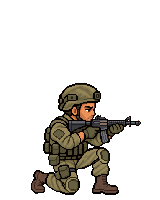
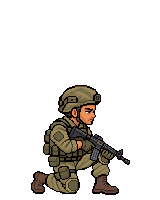
Прицел с колена берётся из рисунка Саши, а не из монтажа
«Солдат сидит и не стреляет» оказался не сидящим: это светлый солдат на
колене с оружием наготове, анфас и профиль — ровно та поза, которой не
хватало под прицеливание. По именам это было не угадать, и кадр пришлось
собирать снятием вспышки с выстрела. Теперь фаза идёт прямо из рисунков,
а код снятия вспышки удалён: держать его ради кадра, который нарисован,
незачем.

Заодно импортирована бочка с нефтью — высотой 84, по колено бойцу.

Changed region(s): [[0.1875, 0.39, 0.875, 0.99], [0.7188, 0.93, 0.75, 0.96], [0.2188, 0.96, 0.25, 0.99]]

diff --git a/tools/import_oil_baron_2.py b/tools/import_oil_baron_2.py
@@ -42,13 +42,13 @@ BARON = {
     "oil_baron_down": "барон побеждён.png",
 }
 
-# Светлому солдату колена с опущенным оружием не нарисовали, а без него у
-# него нет фазы прицела. Кадр собирается из его же выстрела снятием
-# дульной вспышки: поза уже та, что нужна, и трогать рисунок не приходится.
-# Тёмному это не нужно — у него своя поза есть.
+# «Сидит и не стреляет» — это светлый солдат на колене с оружием наготове,
+# профиль и анфас. Имена сбивали с толку, и фазу прицела сначала собрали
+# монтажом из кадра выстрела; настоящие рисунки Саши его заменили.
+# Эти же кадры сидят в кабине вертушки до высадки.
 AIMING = {
-    "soldier_kneel": "солдат_сбоку_на_колене_стреляет(1).png",
-    "soldier_kneel_front": "солдат_спереди_на_колене_стреляет(1).png",
+    "soldier_kneel": "соладт сидит и не стреляет.png",
+    "soldier_kneel_front": "солдат сидит и не стреляет.png",
 }
 
 
@@ -62,6 +62,8 @@ ROPE_WIDTH = 8
 # Висящий солдат выше стоящего: руки подняты над головой, и мерить его
 # ростом нельзя. Число снято по кадру и сверено глазами рядом со стойкой.
 ROPE_BODY = 178
+# Бочка по колено бойцу: 0,88 м против его 1,75.
+BARREL_HEIGHT = 84
 
 
 def silhouette(path: Path):
@@ -100,44 +102,6 @@ def headwear(mask, brim_threshold=0.0):
     size = max(s[1] - s[0] + 1 for s in solid)
     center = float(np.mean([(s[0] + s[1]) / 2 for s in solid]))
     return size, center, top + brim, bottom
-
-
-def without_flash(rgb, mask):
-    """Маска без дульной вспышки.
-
-    Вспышка отделена от ствола и висит в воздухе, поэтому вырезается целиком
-    как связная область оранжево-жёлтого. Заливка идёт от самой яркой точки:
-    порог по цвету одиночно цепляет и блики на снаряжении.
-    """
-    r, g, b = (rgb[:, :, i].astype(int) for i in range(3))
-    # Ядро вспышки выбелено почти до белого, и один оранжевый порог его не
-    # ловит: заливка обходила бы центр по кольцу и оставляла его на месте.
-    hot = mask & (r > 180) & (g > 110) & ((r - b > 60) | (b > 165))
-    if not hot.any():
-        return mask
-    ys, xs = np.where(hot)
-    # Старт ищется по оранжевости, а не по яркости: светлая кожа лица тоже
-    # проходит порог, и заливка от неё съедала лицо, оставляя вспышку.
-    start = int(np.argmax((r + g - 2 * b)[ys, xs]))
-    stack = [(int(ys[start]), int(xs[start]))]
-    flash = np.zeros_like(hot)
-    height, width = hot.shape
-    while stack:
-        y, x = stack.pop()
-        if y < 0 or x < 0 or y >= height or x >= width or flash[y, x] or not hot[y, x]:
-            continue
-        flash[y, x] = True
-        stack.extend([(y + 1, x), (y - 1, x), (y, x + 1), (y, x - 1)])
-    # Свет размазан по краю: без запаса вокруг вспышки остаётся оранжевая
-    # кайма. Она не касается ствола, поэтому запас безопасен.
-    for _ in range(4):
-        grown = flash.copy()
-        grown[1:] |= flash[:-1]
-        grown[:-1] |= flash[1:]
-        grown[:, 1:] |= flash[:, :-1]
-        grown[:, :-1] |= flash[:, 1:]
-        flash = grown
-    return mask & ~flash
 
 
 def place(rgb, mask, scale, center_x, bottom, name):
@@ -217,7 +181,7 @@ def main():
     for name, filename in AIMING.items():
         rgb, mask = silhouette(SOURCE / filename)
         size, center, _, bottom = headwear(mask)
-        place(rgb, without_flash(rgb, mask), HELMET / size, center, bottom, name)
+        place(rgb, mask, HELMET / size, center, bottom, name)
 
     for name, filename in ICE.items():
         rgb, mask = silhouette(SOURCE / filename)
@@ -263,6 +227,12 @@ def flying():
     encode(resize_to_height(rope.astype(np.uint8), max(1, round(rope.shape[0] * scale))),
            ROOT / "art/rope.png")
     print(f"rope: {ROPE_WIDTH} шириной")
+
+    rgb, mask = silhouette(SOURCE / "бочка с нефтью.png")
+    ys, xs = np.where(mask)
+    barrel = np.dstack((rgb, np.where(mask, 255, 0)))[ys.min():ys.max() + 1, xs.min():xs.max() + 1]
+    encode(resize_to_height(barrel.astype(np.uint8), BARREL_HEIGHT), ROOT / "art/barrel.png")
+    print(f"barrel: высота {BARREL_HEIGHT}")
 
     rgb, mask = silhouette(SOURCE / "спускается по верёвке черный.png")
     ys, xs = np.where(mask)

diff --git a/art/README.md b/art/README.md
@@ -98,7 +98,7 @@ tools/run.sh        # запустить стенд
 ### Партия «10.09 продолжение босс файта»
 
 Исходники целиком в `oil_baron_2_source/`, включая то, что в игру пока не
-едет. `python3 tools/import_oil_baron_2.py` собирает из них двадцать пять
+едет. `python3 tools/import_oil_baron_2.py` собирает из них двадцать шесть
 игровых кадров. Четыре кадра ICE перерисованы заново и заменили кадры
 9 сентября — те остались только исходниками, и `import_oil_baron.py` их
 больше не воспроизводит.
@@ -115,7 +115,8 @@ tools/run.sh        # запустить стенд
 | `soldier_fire.png`, `soldier_fire_front.png` | Светлокожий солдат стреляет с колена |
 | `soldier_dark_fire.png`, `soldier_dark_fire_front.png` | Тёмнокожий стреляет с колена |
 | `soldier_dark_kneel.png`, `soldier_dark_kneel_front.png` | Тёмнокожий на колене, оружие опущено |
-| `soldier_kneel.png`, `soldier_kneel_front.png` | Светлокожий на колене целится: его же выстрел без вспышки |
+| `soldier_kneel.png`, `soldier_kneel_front.png` | Светлокожий на колене целится; он же сидит в вертушке |
+| `barrel.png` | Бочка с нефтью, высота 84 — по колено бойцу |
 | `ice_agent.png`, `ice_agent_front.png` | Перерисованный покой ICE, **заменил** кадр 9 сентября |
 | `ice_agent_windup.png`, `ice_agent_windup_front.png` | Перерисованный замах дубинкой, **заменил** кадр 9 сентября |
 | `oil_baron_call.png`, `oil_baron_down.png` | Барон зовёт подкрепление и барон повержен |
@@ -136,16 +137,17 @@ tools/run.sh        # запустить стенд
 выравниваются по носу, а не по рамке: шлейф у них разной длины, и общая
 рамка по холсту гоняла бы ракету внутри спрайта.
 
-Только исходниками, без игровых кадров, лежат бочка с нефтью и двое сидящих
-солдат: механики под них пока нет, а игровой размер без механики — гадание.
+Из партии не импортирован только `ненужно.png`: Егор подтвердил, что он
+лишний.
 
-Кадра прицела у светлого солдата в партии не было, и 12 сентября по просьбе
-Егора он собран из его же выстрела снятием дульной вспышки —
-`soldier_kneel.png` и `soldier_kneel_front.png`. Поза там уже нужная, колено
-на полу, поэтому рисунок не трогали: вспышка висит отдельно от ствола и
-вырезается связной заливкой с запасом на размытый край. Оружие у него при
-этом вскинуто, а не опущено, как у тёмного: опустить ствол значило бы
-перерисовывать руку, а это работа Саши.
+Кадр прицела у светлого солдата всё-таки нарисован — под именами
+`солдат сидит и не стреляет.png` и `соладт сидит и не стреляет.png`. Это он
+на колене с оружием наготове, анфас и профиль; по именам это было не
+угадать, и сначала фазу собрали монтажом из кадра выстрела. Теперь
+`soldier_kneel.png` и `soldier_kneel_front.png` идут прямо из этих
+рисунков, а снятие вспышки из импортёра убрано.
+
+Эти же два кадра сидят в проёме вертушки, пока десант не высадился.
 
 `солдат сидит и не стреляет.png` и `соладт сидит и не стреляет.png` — два
 разных рисунка, а не поворот одного: Егор подтвердил 12 сентября, оба
